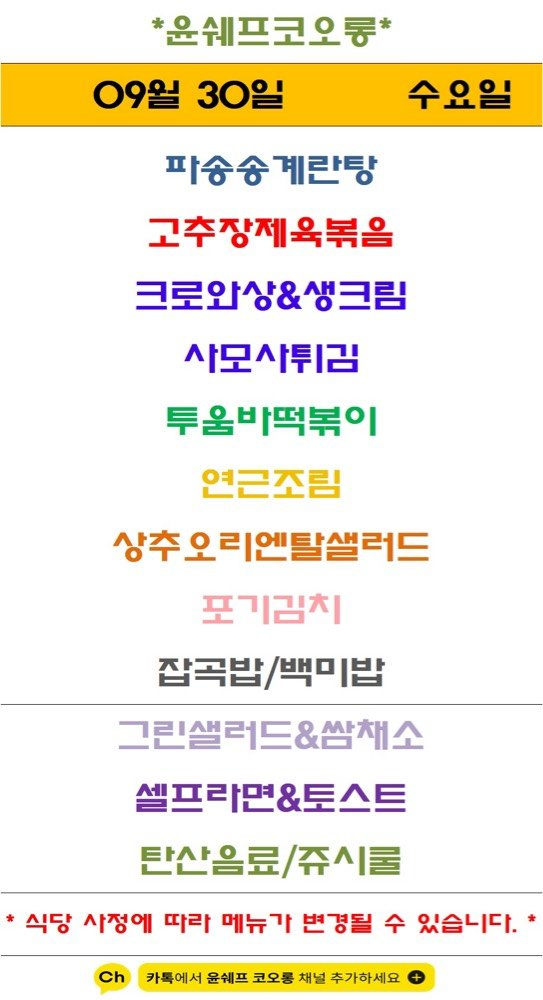
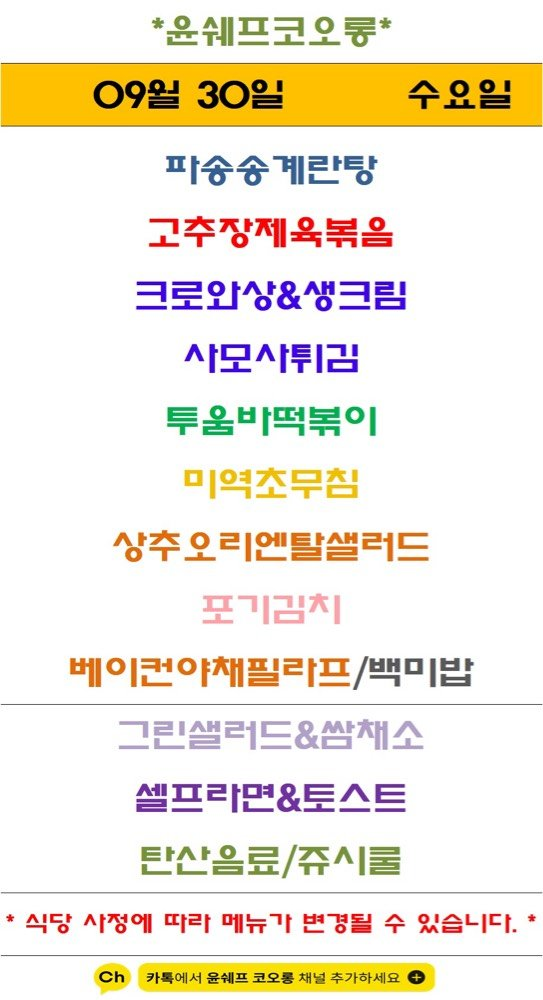
Update menu board assets

Changed region(s): [[0.1179, 0.651, 0.884, 0.713], [0.3241, 0.465, 0.6777, 0.527]]

diff --git a/guro-menu/index.html b/guro-menu/index.html
@@ -32,7 +32,7 @@
   </header>
   <section class="meta">
     <div><small>기준 날짜</small><strong>2026년 9월 30일 수요일</strong></div>
-    <div><small>최종 갱신</small><strong>2026-09-30 10:33:26</strong></div>
+    <div><small>최종 갱신</small><strong>2026-09-30 10:48:17</strong></div>
     <div><small>등록 식당</small><strong>5개</strong></div>
   </section>
   <div class="notice">공개 카카오 채널의 메뉴 이미지를 자동 수집하고 OCR로 정리합니다. 텍스트에 오타가 있을 수 있으니 식단 이미지를 함께 확인해 주세요.</div>
@@ -104,7 +104,7 @@
         </div>
         <img class="menu-image" src="./images/yoon-chef-kolon.png" alt="윤쉐프 코오롱 식단 이미지" loading="lazy">
         
-        <ul><li>파송송계란탕</li><li>고추장제욕볶음</li><li>크로완상&amp;생크림</li><li>사모사튀김</li><li>투움바떡볶이</li><li>상주오리엔탈샐러드</li><li>잡곡밥/백미밥</li><li>그린샐러드&amp;쌈재소</li><li>셀프라면&amp;토스트</li><li>탄산음료/쥬시쿨</li><li>* 식당 APSO 따라 메뉴가 Som 수 있습니다. *</li></ul>
+        <ul><li>파송송계란탕</li><li>고추장제육볶을</li><li>크로와상&amp;생크림</li><li>사모사튀김</li><li>투울바떡볶이</li><li>상주오리엔탈샐러드</li><li>베이컨야재필라프/백미밥</li><li>그린샐러드&amp;쌈채소</li><li>셀프라면&amp;토스트</li><li>탄산음료/쥬시쿨</li></ul>
       </article>
   </section>
   <section class="seo" aria-label="검색 정보">한신IT타워 구내식당 자연푸드 구내식당 더이츠푸드 벽산더이룸 윤쉐프 코오롱 한신IT타워 벽산디지털밸리7차 대륭포스트타워1차 벽산디지털밸리1차 코오롱싸이언스밸리1차 서울 구로구 디지털로 272 한신IT타워 지하1층 서울 구로구 디지털로33길 50 벽산디지털밸리7차 지하1층 서울 구로구 디지털로 288 대륭포스트타워1차 지하1층 서울 구로구 디지털로27길 24 벽산디지털밸리1차 지하1층 서울 구로구 디지털로34길 43 코오롱싸이언스밸리1차 지하1층</section>

diff --git a/menu-today/index.html b/menu-today/index.html
@@ -209,7 +209,7 @@
 
     <section class="meta-bar">
       <div class="meta-card"><div class="meta-label">기준 날짜</div><div class="meta-value">2026년 9월 30일 수요일</div></div>
-      <div class="meta-card"><div class="meta-label">최종 가져온 시간</div><div class="meta-value">2026-09-30 10:33:14</div></div>
+      <div class="meta-card"><div class="meta-label">최종 가져온 시간</div><div class="meta-value">2026-09-30 10:48:02</div></div>
       <div class="meta-card"><div class="meta-label">확인 완료</div><div class="meta-value">9개 식당</div></div>
       <div class="meta-card"><div class="meta-label">준비중</div><div class="meta-value">3개 채널</div></div>
     </section>
@@ -295,7 +295,7 @@
             <div class="sub">에이스테크노타워10차</div>
           </div>
         </div>
-        <div class="menu-inline-image"><img src="./images/thefoodsketch.png" alt="더푸드스케치 식단 이미지"></div><ul><li>『 고추장상겸살</li><li>팽이계란전</li><li>s 국물떡볶이</li><li>파인애플스틱바</li><li>가든샐러드 &amp; 드레싱</li><li>음료</li><li>프드스케치</li></ul>
+        <div class="menu-inline-image"><img src="./images/thefoodsketch.png" alt="더푸드스케치 식단 이미지"></div><ul><li>『 고추장상겸살</li><li>팽이계란전</li><li>s 국물떡볶이</li><li>파인애플스틱바</li><li>가든샐러드 / 드레싱</li><li>음료</li><li>프드스케치</li></ul>
       </article>
 
       <article class="restaurant-card">
